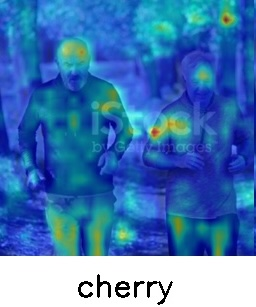
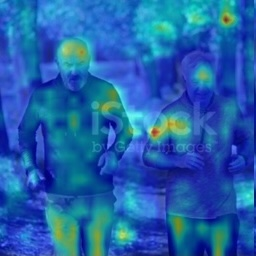
new weight

diff --git a/index.html b/index.html
@@ -788,22 +788,22 @@
                   <th><img data-master-id="master6" width="400" src="./supplementary/ablation_study/videop2p/videop2p_cherry.jpg"> </th>
                 </tr>
                 <tr>
-                  <th colspan="1" style="width: 400px; text-align: center; white-space: normal;">VideoP2P Edit Reslt</th>
-                  <th colspan="1" style="width: 400px; text-align: center; white-space: normal;">cross attn weight of "spiderman"</th>
-                  <th colspan="1" style="width: 400px; text-align: center; white-space: normal;">cross attn weight of "bear"</th>
-                  <th colspan="1" style="width: 400px; text-align: center; white-space: normal;">cross attn weight of "cherry"</th>
+                  <th colspan="1" style="width: 400px; text-align: center; white-space: normal;">VideoP2P reslt</th>
+                  <th colspan="1" style="width: 400px; text-align: center; white-space: normal;">"spiderman" weight</th>
+                  <th colspan="1" style="width: 400px; text-align: center; white-space: normal;">"bear" weight</th>
+                  <th colspan="1" style="width: 400px; text-align: center; white-space: normal;">"cherry" weight</th>
                 </tr>
                 <tr>
                   <th><video data-master-id="master6" width="400" src="./supplementary/ablation_study/videop2p/our_3cls_edit.mp4" autoplay="" loop="" controls="" muted=""> </video> </th>
-                  <th><img data-master-id="master6" width="400" src="./supplementary/ablation_study/videop2p/our_spiderman.jpg"> </th>
-                  <th><img data-master-id="master6" width="400" src="./supplementary/ablation_study/videop2p/our_bear.jpg"> </th>
-                  <th><img data-master-id="master6" width="400" src="./supplementary/ablation_study/videop2p/our_cherry.jpg"> </th>
+                  <th><img data-master-id="master6" width="400" src="./supplementary/ablation_study/videop2p/our_spiderman_weight.jpg"> </th>
+                  <th><img data-master-id="master6" width="400" src="./supplementary/ablation_study/videop2p/our_bear_weight.jpg"> </th>
+                  <th><img data-master-id="master6" width="400" src="./supplementary/ablation_study/videop2p/our_cherry_weight.jpg"> </th>
                 </tr>
                 <tr>
-                  <th colspan="1" style="width: 400px; text-align: center; white-space: normal;">our Edit Reslt</th>
-                  <th colspan="1" style="width: 400px; text-align: center; white-space: normal;">cross attn weight of "spiderman"</th>
-                  <th colspan="1" style="width: 400px; text-align: center; white-space: normal;">cross attn weight of "bear"</th>
-                  <th colspan="1" style="width: 400px; text-align: center; white-space: normal;">cross attn weight of "cherry"</th>
+                  <th colspan="1" style="width: 400px; text-align: center; white-space: normal;">Our reslt</th>
+                  <th colspan="1" style="width: 400px; text-align: center; white-space: normal;">"spiderman" weight</th>
+                  <th colspan="1" style="width: 400px; text-align: center; white-space: normal;">"bear" weight</th>
+                  <th colspan="1" style="width: 400px; text-align: center; white-space: normal;">"cherry" weight</th>
                 </tr>       
               </tbody>
             </table>
